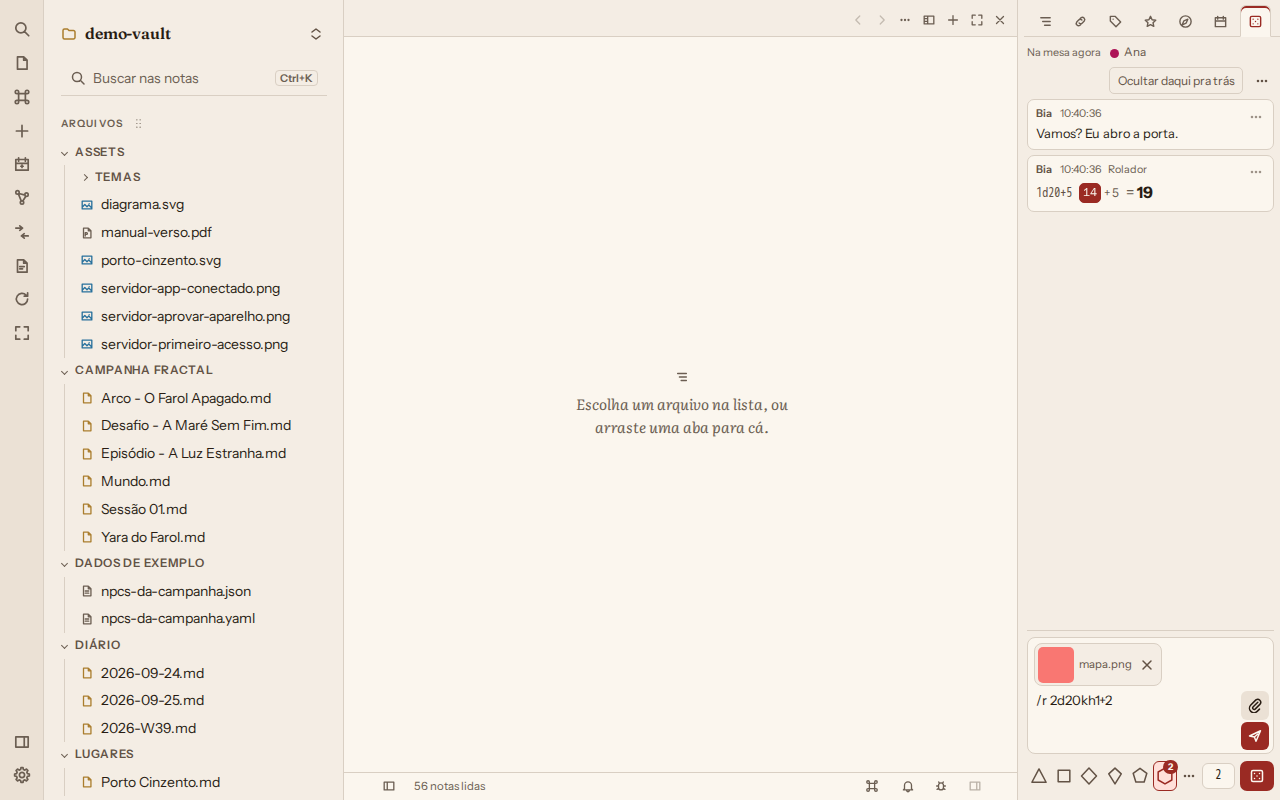
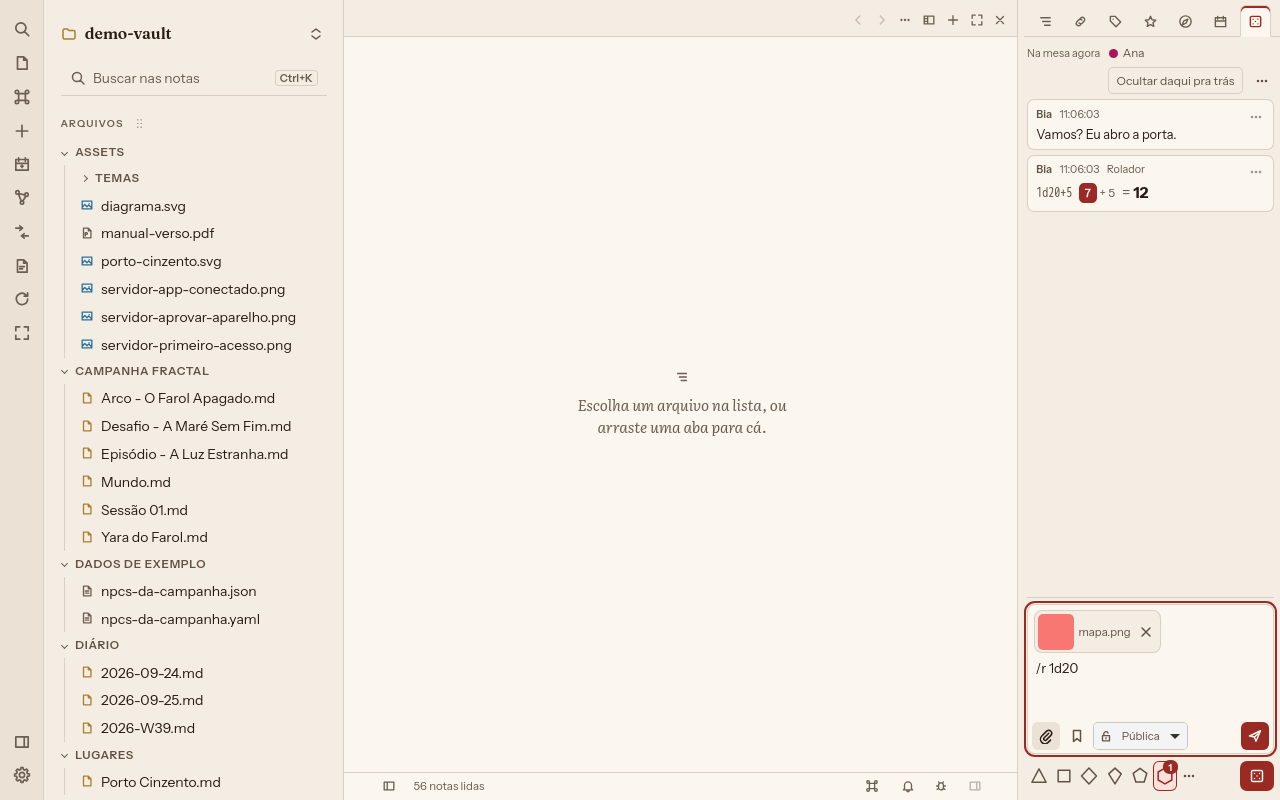
Composer toolbar inside the box; dice row overflow into the dots; text on the top line; narrow-panel screenshot

diff --git a/app/ui/css/table.css b/app/ui/css/table.css
@@ -74,11 +74,11 @@ body[data-table-unread] .ribbon-item[data-id="right"]::after {
 /* One box, as a chat box is (Foundry, Roll20): the images waiting above the text, the actions at its right. */
 .table-box { display: flex; flex-direction: column; box-sizing: border-box; background: var(--paper); border: 1px solid var(--hair); border-radius: 8px; }
 .table-box:focus-within { outline: 2px solid var(--seal); outline-offset: 1px; }
-.table-box-row { display: flex; align-items: flex-end; gap: .2rem; padding-right: .25rem; }
-.table-input { flex: 1; min-width: 0; resize: none; box-sizing: border-box; padding: .4rem .5rem; font: inherit; font-size: .88rem; line-height: 1.35; color: var(--ink); background: transparent; border: 0; outline: 0; border-radius: 8px; min-height: calc(var(--table-lines, 3) * 1.35em + .8rem + 2px); max-height: calc(8 * 1.35em + .8rem + 2px); overflow-y: auto; }
+.table-input { flex: none; width: 100%; min-width: 0; resize: none; box-sizing: border-box; padding: .4rem .5rem; font: inherit; font-size: .88rem; line-height: 1.35; color: var(--ink); background: transparent; border: 0; outline: 0; border-radius: 8px; min-height: calc(var(--table-lines, 3) * 1.35em + .8rem + 2px); max-height: calc(8 * 1.35em + .8rem + 2px); overflow-y: auto; }
 @media (max-width: 760px) { .table-input { --table-lines: 2; } }
-.table-box-actions { display: flex; flex-direction: column; gap: .15rem; padding: .2rem 0; }
-.table-box-actions .iconic { width: 1.9rem; height: 1.9rem; min-width: 1.9rem; display: inline-grid; place-items: center; padding: 0; border-radius: 6px; }
+.table-box-bar { display: flex; align-items: center; gap: .15rem; padding: .1rem .25rem .2rem; }
+.table-box-spacer { flex: 1; }
+.table-box-bar .iconic, .table-box-bar .tray-tool { width: 1.9rem; height: 1.9rem; min-width: 1.9rem; display: inline-grid; place-items: center; padding: 0; border-radius: 6px; }
 .table-send:disabled { opacity: .45; cursor: default; }
 .table-attach[hidden] { display: none; }
 .table-chips { display: flex; flex-wrap: wrap; gap: .3rem; padding: .35rem .4rem 0; }
@@ -101,8 +101,7 @@ body[data-table-unread] .ribbon-item[data-id="right"]::after {
   /* The sheet rises above the on-screen keyboard while the field has it (screen/viewport.ts). */
   body[data-right-tab="table"] aside.right { bottom: max(calc(3.4rem + env(safe-area-inset-bottom)), var(--table-kb, 0px)); height: min(70vh, 600px, calc(100dvh - var(--table-kb, 0px) - 1rem)); }
   .table-menu { width: 2.2rem; height: 2.2rem; min-width: 2.2rem; opacity: 1; }
-  .table-box-actions .iconic { width: 40px; height: 40px; min-width: 40px; }
-  .table-input { font-size: 16px; }
+    .table-input { font-size: 16px; }
   .table-older { min-height: 2.2rem; }
 }
 @media (max-width: 760px) {
@@ -112,8 +111,7 @@ body[data-table-unread] .ribbon-item[data-id="right"]::after {
 /* The dice tray (ADR 0107, "The tray made compact", 2026-10-23): ONE row under the message field, as Foundry's Dice Tray has it. */
 .tray-wrap { position: relative; flex: none; }
 .tray-row { display: flex; align-items: center; gap: .3rem; height: 2.25rem; }
-.tray-scroll { flex: 1; min-width: 0; display: flex; align-items: center; gap: .05rem; scroll-padding: 0 1rem; height: 100%; overflow-x: auto; overflow-y: hidden; scrollbar-width: none; }
-.tray-scroll::-webkit-scrollbar { display: none; }
+.tray-scroll { flex: 1; min-width: 0; display: flex; align-items: center; gap: .05rem; height: 100%; overflow: hidden; }
 .tray-die, .tray-tool, .tray-keep { position: relative; flex: none; display: inline-grid; place-items: center; height: 2rem; min-width: 1.45rem; padding: 0 .08rem; color: var(--ink-2); background: transparent; border: 1px solid transparent; border-radius: 6px; font: 700 .72rem var(--mono); -webkit-touch-callout: none; user-select: none; touch-action: manipulation; }
 .tray-die:hover, .tray-tool:hover, .tray-keep:hover { border-color: var(--hair); background: var(--paper); }
 .tray-die.active { color: var(--seal); border-color: var(--seal); background: var(--seal-wash); }
@@ -133,11 +131,17 @@ body[data-table-unread] .ribbon-item[data-id="right"]::after {
 .tray-go.secret { box-shadow: inset 0 0 0 2px var(--paper); }
 .tray-go svg { display: block; }
 .tray-pop { position: absolute; bottom: calc(100% + .25rem); z-index: 5; box-sizing: border-box; max-width: 100%; max-height: min(22rem, 50vh); overflow-y: auto; padding: .4rem; background: var(--paper); border: 1px solid var(--hair); border-radius: 9px; box-shadow: 0 6px 18px oklch(0% 0 0 / .18); }
-.tray-mode { flex: none; height: 1.75rem; max-width: 4.6rem; padding: 0 .1rem; font: inherit; font-size: .72rem; color: var(--ink-2); background: var(--paper); border: 1px solid var(--hair); border-radius: 6px; margin: 0 .1rem; }
-.tray-mode.secret { color: var(--paper); background: var(--seal); border-color: var(--seal); }
+.tray-mode-wrap { position: relative; flex: none; display: inline-flex; align-items: center; }
+.tray-mode-wrap[hidden] { display: none; }
+.tray-mode-icon { position: absolute; left: .4rem; width: 14px; height: 14px; pointer-events: none; color: var(--ink-2); }
+.tray-mode { height: 1.9rem; padding: 0 .3rem 0 1.5rem; font: inherit; font-size: .75rem; color: var(--ink-2); background: transparent; border: 1px solid transparent; border-radius: 6px; cursor: pointer; }
+.tray-mode:hover { border-color: var(--hair); background: var(--paper); }
+.tray-mode-wrap:has(.tray-mode.secret) .tray-mode-icon, .tray-mode.secret { color: var(--seal); }
+.tray-mode.secret { border-color: var(--seal); background: var(--seal-wash); }
 .tray-mode[hidden] { display: none; }
 .tray-mode:focus-visible { outline: 2px solid var(--seal); outline-offset: 1px; }
-.tray-more { left: 0; display: flex; gap: .2rem; }
+.tray-extras { display: flex; align-items: center; gap: .1rem; }
+.tray-more { left: 0; display: flex; flex-wrap: wrap; align-items: center; gap: .2rem; }
 .tray-more[hidden] { display: none; }
 .tray-saved { right: 0; width: min(21rem, 100%); }
 /* Saved rolls (ADR 0107, 2026-10-23): buttons that wrap inside the pop-over of the bookmark. */
@@ -157,9 +161,11 @@ body[data-table-unread] .ribbon-item[data-id="right"]::after {
 @media (max-width: 760px) {
   /* A phone: the targets are 40 px tall (the icons stay small); the row scrolls sideways inside itself, never the page. */
   .tray-row { height: 44px; }
+  .table-box-bar .iconic, .table-box-bar .tray-tool { width: 40px; height: 40px; min-width: 40px; }
+  .tray-mode { height: 40px; }
   .tray-die, .tray-tool, .tray-keep { height: 40px; min-width: 28px; }
   .tray-mod { height: 40px; width: 44px; font-size: 16px; }
-  .tray-mode { height: 40px; font-size: 16px; max-width: 84px; }
+  .tray-mode { font-size: 16px; padding-left: 1.7rem; }
   .tray-go { height: 40px; width: 42px; }
   .saved-roll { min-height: 2.75rem; }
   .saved-which, .saved-save-go { min-height: 2.6rem; }

diff --git a/app/ui/src/table/tray.ts b/app/ui/src/table/tray.ts
@@ -51,6 +51,14 @@ export class Tray {
   private readonly moreButton = h("button", "tray-tool tray-more-button");
   private readonly moreDot = h("span", "tray-dot");
   private readonly mode = h("select", "tray-mode");
+  private readonly modeWrap = h("span", "tray-mode-wrap");
+  private modeIcon: SVGSVGElement | null = null;
+  private readonly extras = h("div", "tray-extras");
+  private readonly observer: ResizeObserver | null;
+  /** The controls the row could not hold, now in the dots: "keep" (KH, KL) first, then "mod". */
+  private moved: { keep: boolean; mod: boolean } = { keep: false, mod: false };
+  /** The composer's own tools, for the toolbar of its box: the saved rolls and who sees the roll. */
+  readonly tools: HTMLElement[];
   private readonly savedButton = h("button", "tray-tool tray-saved-button");
   private readonly moreBox = h("div", "tray-pop tray-more");
   private readonly savedBox = h("div", "tray-pop tray-saved");
@@ -124,6 +132,7 @@ export class Tray {
       o.value = value;
       this.mode.append(o);
     }
+    this.modeWrap.append(this.mode);
     this.mode.addEventListener("change", () => {
       const t = tableSource();
       if (isServerTable(t)) t.secret = this.mode.value === "secret";
@@ -148,7 +157,9 @@ export class Tray {
     this.savedBox.append(this.saved.el);
     this.savedBox.hidden = true;
 
-    this.scroll.append(this.moreButton, this.mod, this.kh, this.kl, this.savedButton, this.mode);
+    this.moreBox.append(this.extras);
+    this.scroll.append(this.moreButton, this.mod, this.kh, this.kl);
+    this.tools = [this.savedButton, this.modeWrap];
     this.go.type = "button";
     this.go.append(icon("dice", ""));
     this.go.addEventListener("click", () => void this.host.submit());
@@ -171,6 +182,8 @@ export class Tray {
     document.addEventListener("pointerdown", (e) => {
       if (this.anyOpen() && e.target instanceof Node && !this.el.contains(e.target)) this.closePops();
     });
+    this.observer = typeof ResizeObserver === "function" ? new ResizeObserver(() => this.fit()) : null;
+    this.observer?.observe(this.scroll);
     this.paint();
     // A phone: the sheet rises above the keyboard while a field of the row has it (the message field's own does the same).
     const follow = (): void => {
@@ -339,11 +352,44 @@ export class Tray {
   /** The secret toggle as it stands, for a server's table; the local one has none. */
   sync(src: TableSource): void {
     this.secret = isServerTable(src) && src.secret;
+    this.modeWrap.hidden = !isServerTable(src);
     this.mode.hidden = !isServerTable(src);
+    this.modeIcon?.remove();
+    this.modeIcon = icon(this.secret ? "lock" : "unlock", "");
+    this.modeIcon.classList.add("tray-mode-icon");
+    this.modeWrap.prepend(this.modeIcon);
     this.mode.value = this.secret ? "secret" : "public";
     this.mode.classList.toggle("secret", this.secret);
     this.saved.sync();
     this.paint();
+  }
+
+  /** The row holds what fits, in a fixed order of what goes first into the dots: the other dice (always there),
+   *  then KH / KL, then the modifier. Nothing is clipped and nothing scrolls. */
+  private fit(): void {
+    const room = this.scroll.clientWidth;
+    if (room === 0) return;
+    const active = document.activeElement;
+    // Everything in the row, measured; then out, in order, until it fits.
+    this.place(false, false);
+    let state = { keep: false, mod: false };
+    if (this.scroll.scrollWidth > room) {
+      state = { keep: true, mod: false };
+      this.place(true, false);
+      if (this.scroll.scrollWidth > room) {
+        state = { keep: true, mod: true };
+        this.place(true, true);
+      }
+    }
+    this.moved = state;
+    if (active instanceof HTMLElement && document.activeElement !== active && this.el.contains(active)) active.focus({ preventScroll: true });
+    this.paint();
+  }
+
+  private place(keep: boolean, mod: boolean): void {
+    const [row, out] = [this.scroll, this.extras];
+    (mod ? out : row).append(this.mod);
+    (keep ? out : row).append(this.kh, this.kl);
   }
 
   private paint(): void {
@@ -357,7 +403,9 @@ export class Tray {
       s.count.textContent = term ? String(term.count) : "";
       if (term && OTHER.includes(s.kind)) other += 1;
     }
-    this.moreDot.hidden = other === 0;
+    // The dots carry a dot while something in them is in force: another die, or a KH / KL or modifier the row had no room for.
+    const hiddenInForce = (this.moved.keep && keepOf(base) !== null) || (this.moved.mod && base.modifier !== 0);
+    this.moreDot.hidden = other === 0 && !hiddenInForce;
     if (document.activeElement !== this.mod) this.mod.value = String(base.terms.length > 0 ? base.modifier : this.pendingMod);
     const keep = keepOf(base);
     this.kh.setAttribute("aria-pressed", String(keep === "kh"));

diff --git a/app/ui/src/table/compose.ts b/app/ui/src/table/compose.ts
@@ -96,14 +96,14 @@ export class Compose {
     this.send.title = tt.send;
     this.attach.setAttribute("aria-label", ts.attach);
     this.attach.title = ts.attach;
-    // One box, as a chat box is: the images waiting above the text, the actions at its right.
-    const actions = h("div", "table-box-actions");
-    actions.append(this.attach, this.send);
-    const inner = h("div", "table-box-row");
-    inner.append(this.field, actions);
-    const box = h("div", "table-box");
-    box.append(this.chips, inner);
+    // One box, as a chat box is: the images waiting above the text, the text, and a small toolbar on the bottom edge
+    // (the paperclip, the saved rolls, who sees the roll, and Send at the right) like Discord's, Slack's and Foundry's chat.
     this.tray = new Tray({ input: this.field, submit: () => this.submit(), showError: (text) => (text === null ? this.clearError() : this.fail(text)) });
+    const bar = h("div", "table-box-bar");
+    const spacer = h("span", "table-box-spacer");
+    bar.append(this.attach, ...this.tray.tools, spacer, this.send);
+    const box = h("div", "table-box");
+    box.append(this.chips, this.field, bar);
     this.el.append(this.error, box, this.tray.el, this.counter);
 
     this.el.addEventListener("submit", (e) => {

diff --git a/docs/pt-BR/adr/0107-the-table-a-shared-roll-and-chat-log.md b/docs/pt-BR/adr/0107-the-table-a-shared-roll-and-chat-log.md
@@ -601,7 +601,9 @@ Escolhido no código, para o mantenedor confirmar ou mudar. (1) KH e KL são doi
 
 **O campo de mensagem maior (23/10/2026).** O mantenedor: *"Coloca a caixa de digitação maior, sendo possível apertar shift+enter pra quebrar linha e tal"*. O campo de mensagem da Mesa começa com três linhas (duas no celular), cresce com o texto até oito linhas e então rola; `Shift+Enter` insere uma quebra de linha, `Enter` envia, e `Enter` durante a composição de um método de entrada (IME) só confirma a composição. O registro já mostra as quebras de linha de uma mensagem (`white-space: pre-wrap`) e o servidor aceita a quebra de linha numa mensagem (só os outros caracteres de controle são recusados, `table.rs`) dentro do mesmo limite de 500 caracteres, então o contrato não muda. No celular a folha continua subindo acima do teclado enquanto o campo o tem.
 
-**O pé inteiro do painel virou uma caixa (23/10/2026).** O mantenedor, com uma captura do pé do painel: *"toda essa parte de bandeja de dados está muito ruim. Eu vi que você colocou ali uma parte de secreto, tem um botão de imagem, outro botão de rolar dado. Toda essa parte precisa ser remanejada, de preferência copiando a mesma experiência que tem no Foundry VTT ou no Roll20 ou nesses outros VTTs. Porque quando eu falei de colar a imagem, é literalmente a pessoa copia ou tira um print, clica no botão direito colar, ou segura o clique no celular e clica em colar, ou aperta Ctrl V, Command V."* e *"tem que revisar isso tudo ai da imagem"*. O pé agora é UM compositor, como o chat de um VTT: a caixa de mensagem de várias linhas, a fila de dados logo abaixo e nada mais. Saíram: a fila separada de botões de imagem, de rolador e **Secreta** (o diálogo do rolador continua na paleta de comandos, **Rolar dados…**) e as linhas de dica. Quem vê a rolagem é o seletor de modo de rolagem do Foundry, na fila de dados (o chat do núcleo do Foundry tem um: Pública / Mestre privada / Cega / Para si); o Verso tem dois modos, então é um pequeno seletor **Pública / Secreta**, a mesma chave do botão antigo (a rolagem para os donos da pasta), só na mesa de um servidor; o botão do dado passa a dizer *Rolar em segredo*. **Imagens** se colam: `Ctrl+V` / `⌘V` com uma imagem copiada ou um print, botão direito › Colar, ou o dedo seguro › Colar no celular, na caixa (tudo termina no evento `paste` do navegador com a imagem na área de transferência; a caixa é um `textarea` comum, e nem o menu de contexto do app, que só troca o menu das figuras já em notas, `main.ts`, nem o menu do dedo seguro, que deixa os campos para o sistema, `touch.ts`, tira o menu dela), ou solta sobre o painel, ou escolhida num pequeno clipe na caixa (escolhido no código, para celulares e galerias). Uma imagem colada não vai de uma vez: espera na caixa como uma miniatura com um **×**; **Enter** (ou o botão de enviar) envia as imagens e depois o texto. O contrato manda uma imagem e uma mensagem como dois comandos (`table_send_image`, `table_say`), então são duas linhas do registro, as imagens primeiro; sem mudança de contrato. As conferências de 10 MB e de tipo e as suas mensagens são as mesmas, agora feitas ao colar; a que o servidor recusa fica na caixa para outra tentativa. Um GIF vai como está, então continua animado no registro. Leitor não tem clipe e a colagem não é tomada. Escolhido no código, para o mantenedor confirmar: um pequeno botão de enviar (um aviãozinho) fica ao lado da caixa, porque o teclado do celular não tem Shift+Enter; o contador dos 500 caracteres continua como era. O que foi lido: o módulo Dice Tray do Foundry (veja acima); o chat do núcleo do Foundry e o do Roll20 eu conheço de usar, não do código — o do Roll20 é fechado, e o comportamento copiado é o visível (uma caixa, o modo de rolagem como seletor, Enter envia).
+**O pé inteiro do painel virou uma caixa (23/10/2026).** O mantenedor, com uma captura do pé do painel: *"toda essa parte de bandeja de dados está muito ruim. Eu vi que você colocou ali uma parte de secreto, tem um botão de imagem, outro botão de rolar dado. Toda essa parte precisa ser remanejada, de preferência copiando a mesma experiência que tem no Foundry VTT ou no Roll20 ou nesses outros VTTs. Porque quando eu falei de colar a imagem, é literalmente a pessoa copia ou tira um print, clica no botão direito colar, ou segura o clique no celular e clica em colar, ou aperta Ctrl V, Command V."* e *"tem que revisar isso tudo ai da imagem"*. O pé agora é UM compositor, como o chat de um VTT: a caixa de mensagem de várias linhas, a fila de dados logo abaixo e nada mais. Saíram: a fila separada de botões de imagem, de rolador e **Secreta** (o diálogo do rolador continua na paleta de comandos, **Rolar dados…**) e as linhas de dica. Quem vê a rolagem é o seletor de modo de rolagem do Foundry, na fila de dados (o chat do núcleo do Foundry tem um: Pública / Mestre privada / Cega / Para si); o Verso tem dois modos, então é um pequeno seletor **Pública / Secreta**, a mesma chave do botão antigo (a rolagem para os donos da pasta), só na mesa de um servidor; o botão do dado passa a dizer *Rolar em segredo*. **A caixa e a fila (revisto no mesmo dia).** Nada pode ficar além da borda, então os controles do próprio compositor foram para uma pequena barra na borda de baixo da caixa (clipe, marcador das rolagens salvas, um seletor compacto **Pública / Secreta** com um cadeado e o Enviar à direita), e a fila de dados fica com os dados, o modificador, KH / KL e o botão de rolar. O que não cabe na fila vai para o popover do "⋯", numa ordem fixa: primeiro d2, d3, d66, d100 e dF (sempre ali), depois KH / KL, depois o modificador; a fila é medida com um `ResizeObserver`, os pontinhos mostram um ponto enquanto algo dentro deles está valendo, e nada é cortado nem rola para o lado em 260, 320, 390 ou 1280 px. O texto digitado começa na primeira linha da caixa.
+
+**Imagens** se colam: `Ctrl+V` / `⌘V` com uma imagem copiada ou um print, botão direito › Colar, ou o dedo seguro › Colar no celular, na caixa (tudo termina no evento `paste` do navegador com a imagem na área de transferência; a caixa é um `textarea` comum, e nem o menu de contexto do app, que só troca o menu das figuras já em notas, `main.ts`, nem o menu do dedo seguro, que deixa os campos para o sistema, `touch.ts`, tira o menu dela), ou solta sobre o painel, ou escolhida num pequeno clipe na caixa (escolhido no código, para celulares e galerias). Uma imagem colada não vai de uma vez: espera na caixa como uma miniatura com um **×**; **Enter** (ou o botão de enviar) envia as imagens e depois o texto. O contrato manda uma imagem e uma mensagem como dois comandos (`table_send_image`, `table_say`), então são duas linhas do registro, as imagens primeiro; sem mudança de contrato. As conferências de 10 MB e de tipo e as suas mensagens são as mesmas, agora feitas ao colar; a que o servidor recusa fica na caixa para outra tentativa. Um GIF vai como está, então continua animado no registro. Leitor não tem clipe e a colagem não é tomada. Escolhido no código, para o mantenedor confirmar: um pequeno botão de enviar (um aviãozinho) fica ao lado da caixa, porque o teclado do celular não tem Shift+Enter; o contador dos 500 caracteres continua como era. O que foi lido: o módulo Dice Tray do Foundry (veja acima); o chat do núcleo do Foundry e o do Roll20 eu conheço de usar, não do código — o do Roll20 é fechado, e o comportamento copiado é o visível (uma caixa, o modo de rolagem como seletor, Enter envia).
 
 ## Situação
 

diff --git a/docs/adr/0107-the-table-a-shared-roll-and-chat-log.md b/docs/adr/0107-the-table-a-shared-roll-and-chat-log.md
@@ -592,7 +592,9 @@ Chosen in the code, for the maintainer to confirm or change. (1) KH and KL are t
 
 **The message field made larger (2026-10-23).** The maintainer: *"Coloca a caixa de digitação maior, sendo possível apertar shift+enter pra quebrar linha e tal"*. The Table's message field starts three lines tall (two on a phone), grows with its text up to eight lines and then scrolls; `Shift+Enter` inserts a line break, `Enter` sends, and `Enter` while an input method composes (IME) only confirms the composition. The log already shows a message's line breaks (`white-space: pre-wrap`) and the server accepts a line feed in a message (only other control characters are refused, `table.rs`) within the same 500-character bound, so there is no change to the contract. On a phone the sheet still rises above the keyboard while the field has it.
 
-**The whole foot of the panel made one box (2026-10-23).** The maintainer, with a screenshot of the panel's foot: *"toda essa parte de bandeja de dados está muito ruim. Eu vi que você colocou ali uma parte de secreto, tem um botão de imagem, outro botão de rolar dado. Toda essa parte precisa ser remanejada, de preferência copiando a mesma experiência que tem no Foundry VTT ou no Roll20 ou nesses outros VTTs. Porque quando eu falei de colar a imagem, é literalmente a pessoa copia ou tira um print, clica no botão direito colar, ou segura o clique no celular e clica em colar, ou aperta Ctrl V, Command V."* and *"tem que revisar isso tudo ai da imagem"*. The foot is now ONE composer, as a VTT's chat is: the multi-line message box, the dice row right under it, and nothing else. Gone: the separate row of image, roller and **Secreta** buttons (the roller dialog stays in the command palette, **Rolar dados…**), the hint lines. Who sees a roll is Foundry's roll-mode selector in the dice row (core Foundry's chat has one: Public / Private GM / Blind GM / Self roll); Verso has two modes, so it is a small **Pública / Secreta** select, the same switch as the old toggle (the roll to the folder's owners), shown at a server's table only; the dice button then says *Rolar em segredo*. **Images** are pasted: `Ctrl+V` / `⌘V` with an image copied or a screenshot, right click › Paste, or the phone's long press › Paste in the box (all end in the browser's `paste` event with the image in the clipboard; the box is a plain `textarea`, and neither the app's own context menu, which replaces the menu only for pictures already in notes, `main.ts`, nor the long-press menu, which leaves fields to the system, `touch.ts`, takes the menu from it), or dropped on the panel, or chosen with a small paperclip in the box (chosen in the code, for phones and galleries). A pasted image does not go at once: it waits in the box as a small thumbnail with an **×**; **Enter** (or the send button) sends the images and then the text. The contract sends an image and a message as two commands (`table_send_image`, `table_say`), so they are two lines of the log, the images first; no contract change. The 10 MB and type checks and their messages are the same, now made when the image is pasted; one refused by the server stays in the box for another try. A GIF is sent as it is, so it stays animated in the log. A reader has no paperclip and a paste is not taken. Chosen in the code, for the maintainer to confirm: a small send button (a paper plane) stays beside the box, because a phone's keyboard has no Shift+Enter and Enter must be able to mean a new line there later; the counter of the 500 characters stays as it was. What was read: Foundry's Dice Tray module (see above); Foundry core's and Roll20's chat I know from using them, not from their source — Roll20's is closed, and the behaviour copied is the visible one (one box, the roll mode as a select, Enter sends).
+**The whole foot of the panel made one box (2026-10-23).** The maintainer, with a screenshot of the panel's foot: *"toda essa parte de bandeja de dados está muito ruim. Eu vi que você colocou ali uma parte de secreto, tem um botão de imagem, outro botão de rolar dado. Toda essa parte precisa ser remanejada, de preferência copiando a mesma experiência que tem no Foundry VTT ou no Roll20 ou nesses outros VTTs. Porque quando eu falei de colar a imagem, é literalmente a pessoa copia ou tira um print, clica no botão direito colar, ou segura o clique no celular e clica em colar, ou aperta Ctrl V, Command V."* and *"tem que revisar isso tudo ai da imagem"*. The foot is now ONE composer, as a VTT's chat is: the multi-line message box, the dice row right under it, and nothing else. Gone: the separate row of image, roller and **Secreta** buttons (the roller dialog stays in the command palette, **Rolar dados…**), the hint lines. Who sees a roll is Foundry's roll-mode selector in the dice row (core Foundry's chat has one: Public / Private GM / Blind GM / Self roll); Verso has two modes, so it is a small **Pública / Secreta** select, the same switch as the old toggle (the roll to the folder's owners), shown at a server's table only; the dice button then says *Rolar em segredo*. **The box and the row (revised the same day).** Nothing may sit past the edge, so the composer's own controls moved into a small toolbar on the bottom edge of the box (paperclip, bookmark for the saved rolls, a compact **Pública / Secreta** select with a lock icon, Send at the right), and the dice row keeps the dice, the modifier, KH / KL and the roll button. What the row has no room for goes into the "⋯" popover, in a fixed order: first d2, d3, d66, d100 and dF (always there), then KH / KL, then the modifier; the row is measured with a `ResizeObserver`, the dots carry a dot while something in them is in force, and nothing is clipped or scrolls sideways at 260, 320, 390 or 1280 px. The typed text starts on the top line of the box.
+
+**Images** are pasted: `Ctrl+V` / `⌘V` with an image copied or a screenshot, right click › Paste, or the phone's long press › Paste in the box (all end in the browser's `paste` event with the image in the clipboard; the box is a plain `textarea`, and neither the app's own context menu, which replaces the menu only for pictures already in notes, `main.ts`, nor the long-press menu, which leaves fields to the system, `touch.ts`, takes the menu from it), or dropped on the panel, or chosen with a small paperclip in the box (chosen in the code, for phones and galleries). A pasted image does not go at once: it waits in the box as a small thumbnail with an **×**; **Enter** (or the send button) sends the images and then the text. The contract sends an image and a message as two commands (`table_send_image`, `table_say`), so they are two lines of the log, the images first; no contract change. The 10 MB and type checks and their messages are the same, now made when the image is pasted; one refused by the server stays in the box for another try. A GIF is sent as it is, so it stays animated in the log. A reader has no paperclip and a paste is not taken. Chosen in the code, for the maintainer to confirm: a small send button (a paper plane) stays beside the box, because a phone's keyboard has no Shift+Enter and Enter must be able to mean a new line there later; the counter of the 500 characters stays as it was. What was read: Foundry's Dice Tray module (see above); Foundry core's and Roll20's chat I know from using them, not from their source — Roll20's is closed, and the behaviour copied is the visible one (one box, the roll mode as a select, Enter sends).
 
 ## Status
 
